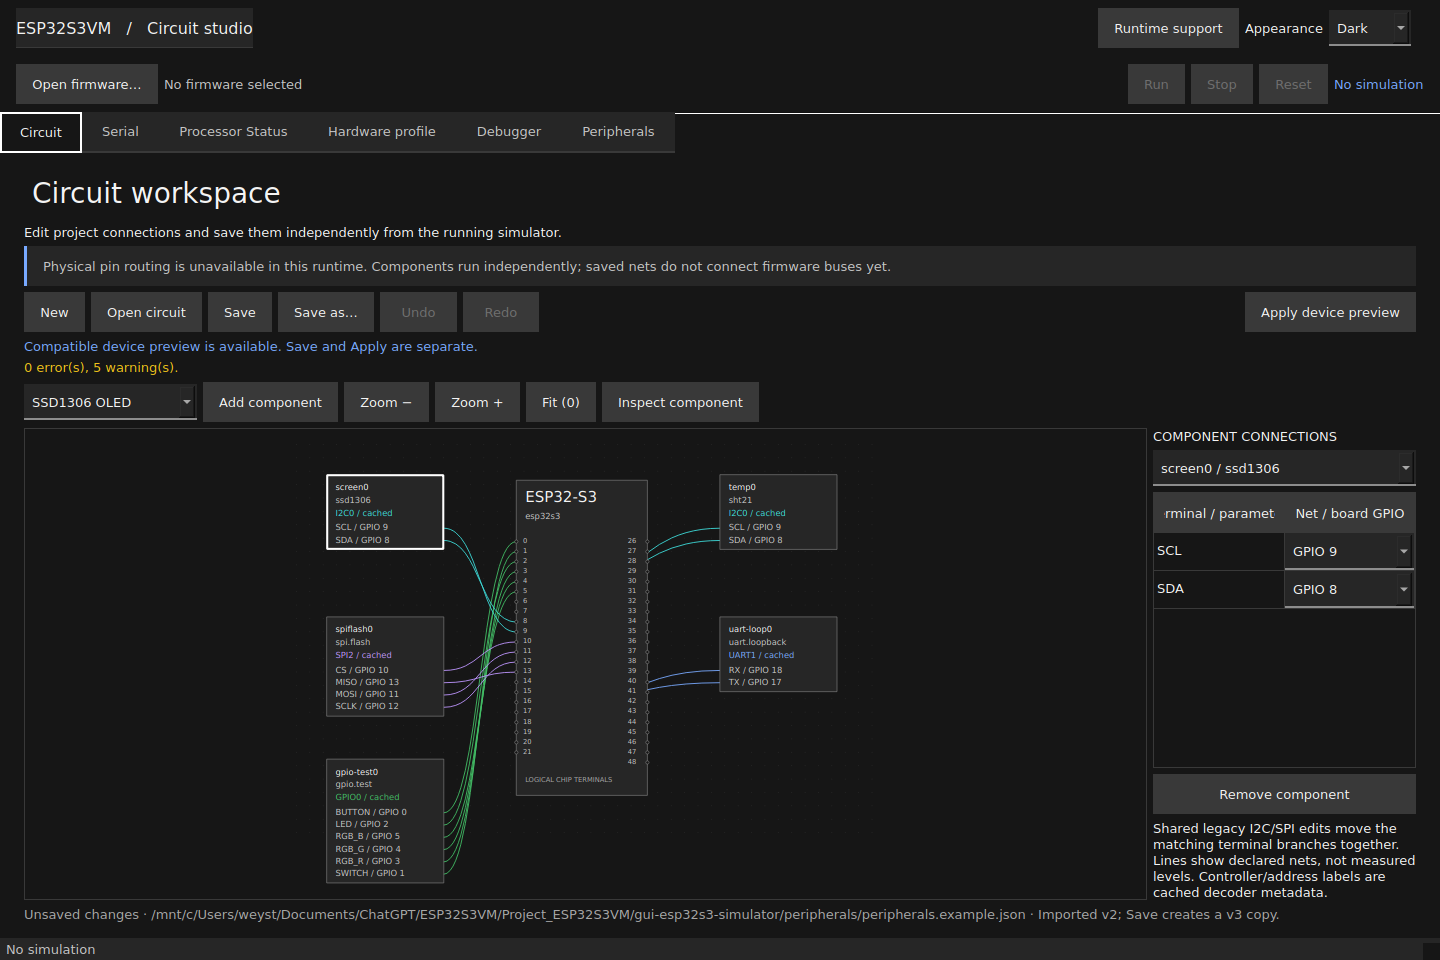
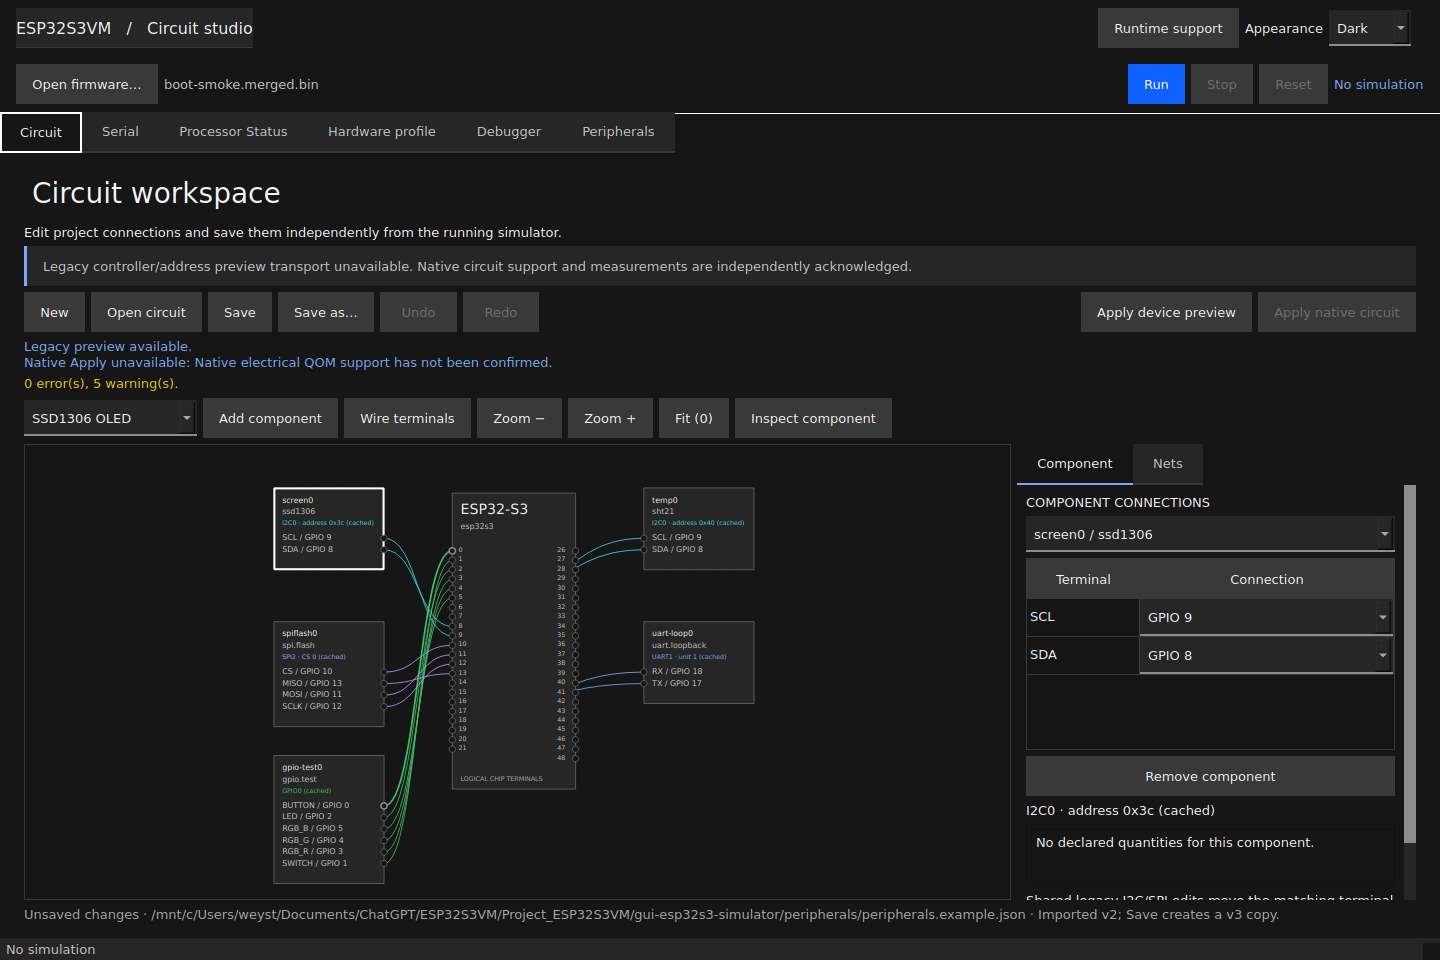
hostbus 7/7 scenario suite; UX header clip resolved by rebuild; lane script fix
- Full hostbus scenario suite passes on the qom-options-patched binary with
  the manifest-identical peer (delay-fast/slow, watchdog, disconnect, reset,
  released-reset, gdb-raw-step); records updated, evidence preserved
- Right-hand table header clipping was stale-binary skew; rebuilt shared lane
  is 10/10 CTest 0 skipped; handoff previews recaptured in both themes
- validate-required-wsl.sh: drop stray '+' CMake argument

diff --git a/docs/handoff/05-qemu-and-electrical.md b/docs/handoff/05-qemu-and-electrical.md
@@ -32,11 +32,17 @@ qemu-extension-40edccac4156/build-hostbus/qemu-system-xtensa:
   build-runtime-state/hostbus-enabled-scenarios-2026-10-08/delay-fast/
   (qmp.jsonl, peer.jsonl, wire-*.bin, wire-envelopes.jsonl).
 
-Still open per the contract findings: the remaining scenarios (delay-slow,
-watchdog, disconnect, reset, released-reset, gdb-raw-step), lifecycle
-malformed-response tests, --require-core-heartbeats two-CPU execution evidence
-(currently established=false), and the disabled-extension boot/control baseline
-re-run. The prototype remains unqualified for integration.
+Full scenario suite (2026-10-08, same binary and manifest-identical peer):
+**7/7 PASS** — delay-fast, delay-slow (1 ms modeled latency in both), watchdog
+(host expiry blocks guest execution as designed), disconnect (explicit
+cancel/reset required), reset (stale callback rejected, new epoch 1),
+released-reset (old completion cancelled), gdb-raw-step. Evidence:
+build-runtime-state/hostbus-enabled-scenarios-2026-10-08/<scenario>/.
+
+Still open per the contract findings: lifecycle malformed-response broadening,
+--require-core-heartbeats two-CPU execution evidence (core_execution stays
+established=false in all seven runs), and the disabled-extension boot/control
+baseline re-run. The prototype remains unqualified for integration.
 
 ## Source mapping and patch order
 

diff --git a/docs/handoff/README.md b/docs/handoff/README.md
@@ -67,6 +67,8 @@ An incoming agent's first report should name its exact file scope, current
 reproduced result, next testable change and any dependency. It must not claim full
 peripheral/radio/SIMD support from these foundation checks.
 
-Fresh handoff previews: [Light](assets/light.png), [Dark](assets/dark.png).
-The right-hand table's first header clips in both themes; this is a known UX
-polish task, not hidden by the passing regression.
+Fresh handoff previews (2026-10-08 rebuild): [Light](assets/light.png),
+[Dark](assets/dark.png). The right-hand table header clipping was stale-binary
+skew (the pre-fix binary had been captured); the frozen source was already
+correct. Rebuilt shared lane verified 10/10 CTest, 0 skipped; fresh captures
+show both headers fully rendered in both themes.
